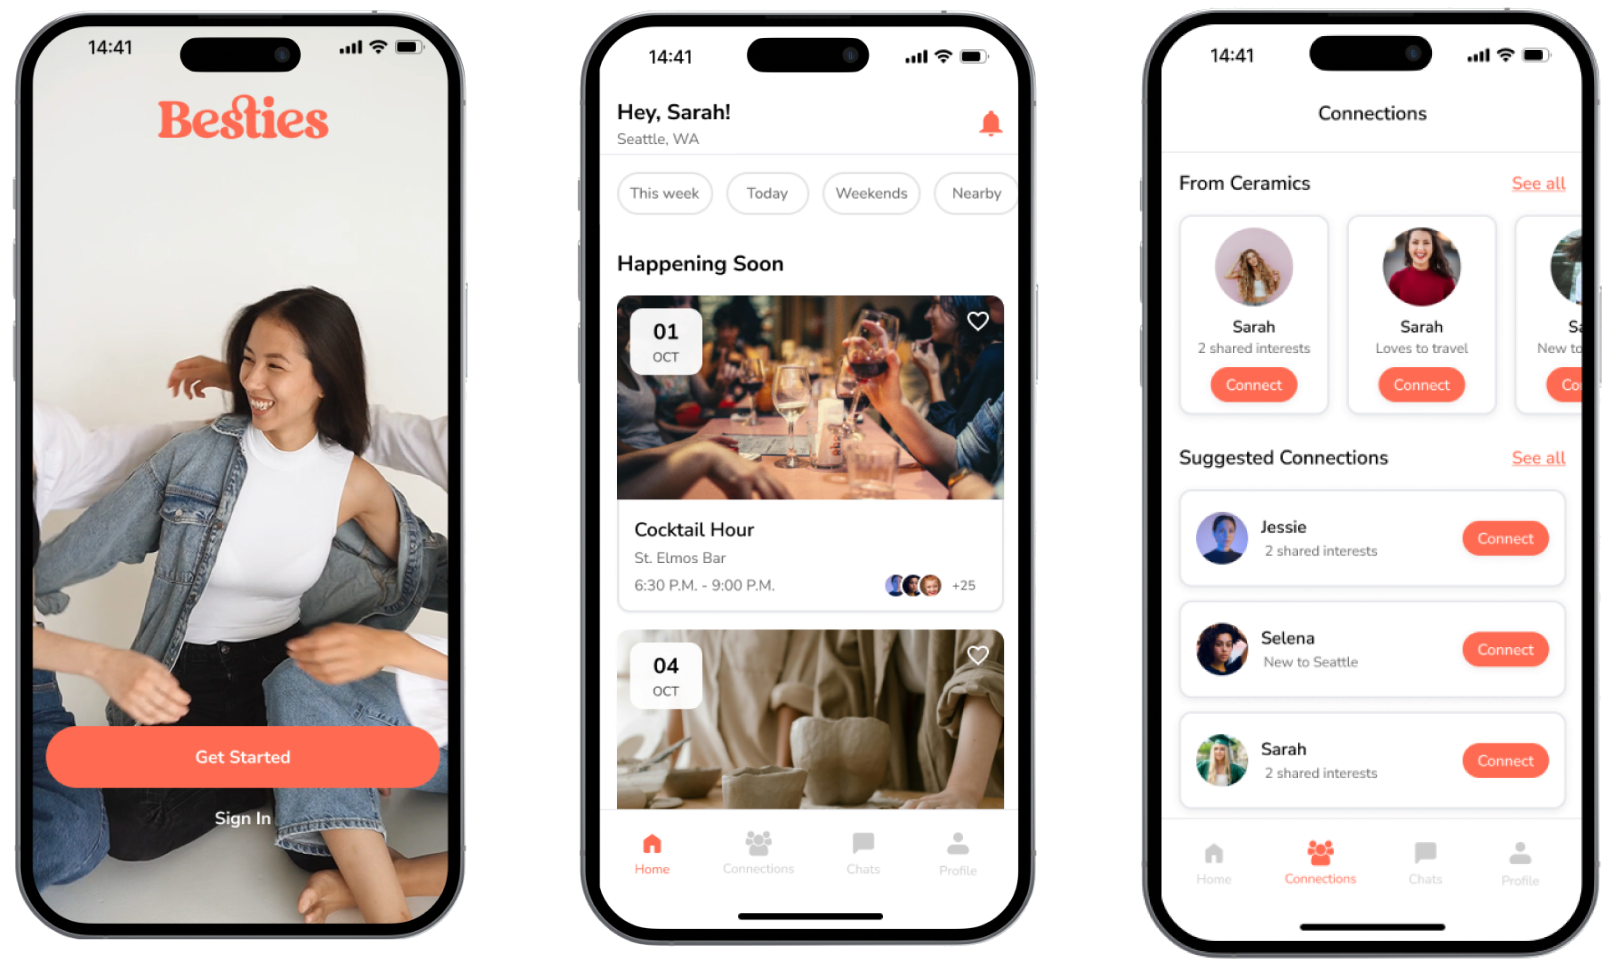
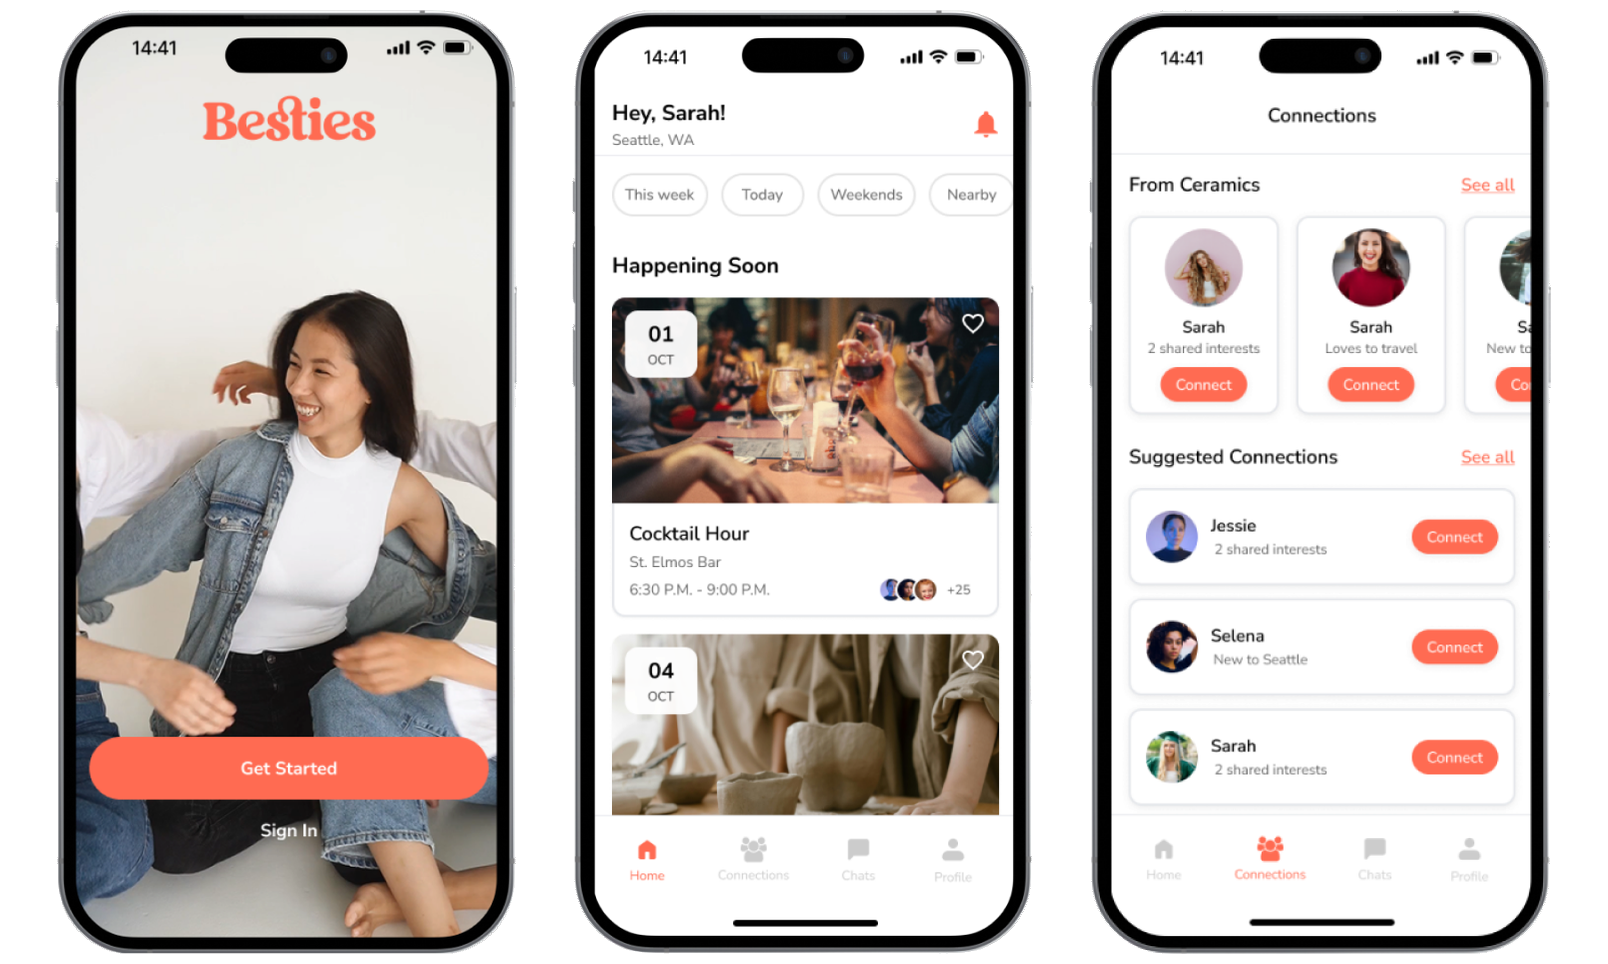
Wordmark links home to Work; align the hero phone mockups
- Clicking the Amelia Simpson wordmark (sidebar or mobile bar) returns to
  the default Work view.
- Normalize the three Besties hero phones to equal size, aligned and evenly
  spaced on the coral gradient.

diff --git a/app.js b/app.js
@@ -507,6 +507,19 @@
     a.addEventListener('keydown', function (e) { if (e.key === 'Enter' || e.key === ' ') { e.preventDefault(); go(); } });
   });
 
+  // the wordmark acts as "home" — return to the default Work view
+  document.querySelectorAll('.wordmark, .mobile-wordmark').forEach(function (el) {
+    el.setAttribute('role', 'link');
+    el.setAttribute('tabindex', '0');
+    function home() {
+      document.body.classList.remove('menu-open');   // close the mobile drawer if open
+      if (location.hash.replace(/^#/, '') === 'work') showView('work');
+      else location.hash = '#work';
+    }
+    el.addEventListener('click', home);
+    el.addEventListener('keydown', function (e) { if (e.key === 'Enter' || e.key === ' ') { e.preventDefault(); home(); } });
+  });
+
   // hash drives the view; falls back to the last view if the URL has no hash
   window.addEventListener('hashchange', function () { showView(hashView() || 'work'); window.scrollTo(0, 0); });
 

diff --git a/index.html b/index.html
@@ -10,7 +10,7 @@
 <link href="https://fonts.googleapis.com/css2?family=Sometype+Mono:wght@400;500;700&display=swap" rel="stylesheet">
 <!-- Nested case-study animation faces -->
 <link href="https://fonts.googleapis.com/css2?family=Figtree:wght@400;500;600;700&display=swap" rel="stylesheet">
-<link rel="stylesheet" href="styles.css?v=50">
+<link rel="stylesheet" href="styles.css?v=51">
 <script>
   /* set the view before first paint so a refresh doesn't flash the Work page */
   (function () {
@@ -227,6 +227,6 @@
 <!-- ===== Index view switcher (Work / Gallery) ===== -->
 
 <!-- ===== Nested case-study animation (vanilla port of the Claude Design handoff) ===== -->
-<script src="app.js?v=37"></script>
+<script src="app.js?v=38"></script>
 </body>
 </html>

diff --git a/styles.css b/styles.css
@@ -36,7 +36,9 @@
     padding: 18px 40px 30px;
     border-right: 1px solid rgba(30,40,60,.13);
   }
-  .wordmark { font-size: 22px; color: var(--ink); letter-spacing: .01em; }
+  .wordmark { font-size: 22px; color: var(--ink); letter-spacing: .01em; cursor: pointer; }
+  .wordmark:hover, .mobile-wordmark:hover { opacity: .62; }
+  .mobile-wordmark { cursor: pointer; }
   .role { font-size: 15px; color: var(--muted); letter-spacing: .01em; }
   .bio { font-size: 15px; line-height: 1.8; color: var(--muted); max-width: 46ch; margin-top: 26px; }
   .bio em { font-style: normal; color: var(--ink); border-bottom: 1px solid var(--muted); padding-bottom: 1px; white-space: nowrap; }

diff --git a/besties.html b/besties.html
@@ -38,7 +38,7 @@
     <h1>Besties</h1>
     <p class="lede">A women-only friendship app that connects people through shared interests and authentic values.</p>
     <div class="hero-banner">
-      <img src="images/besties/phones.png" alt="Three Besties app screens: a Get Started welcome, an events feed, and a connections list." loading="eager">
+      <img src="images/besties/phones.png?v=2" alt="Three Besties app screens: a Get Started welcome, an events feed, and a connections list." loading="eager">
     </div>
   </section>
 
